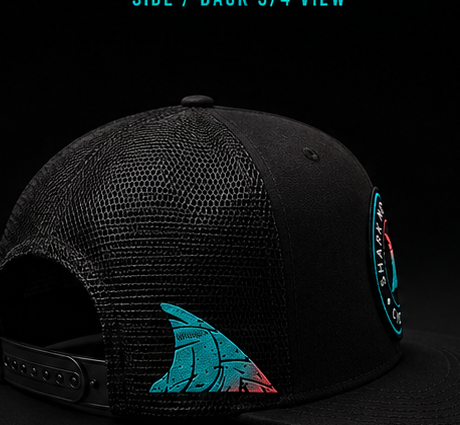
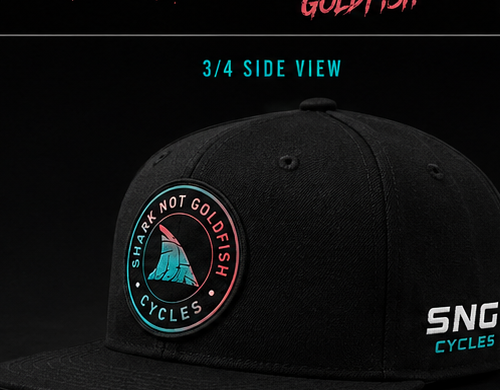
Refine FL Grown hero framing and mens hat views

diff --git a/florida-grown.html b/florida-grown.html
@@ -172,6 +172,9 @@ nav {
 }
 .hero-entry-img {
   width: 100%;
+  aspect-ratio: 16 / 10;
+  object-fit: cover;
+  object-position: center 22%;
   display: block;
 }
 
@@ -866,12 +869,12 @@ var PRODUCTS = {
   'reef-hat': {
     badge: 'Florida Grown', name: 'Florida Grown Snapback', sub: 'Structured Black Snapback',
     price: '$35.00', image: 'fl-grown-hat-front-crop.png',
-    desc: 'Structured black snapback with circular front patch, rear fin art, and custom Build Up underbrim artwork.',
+    desc: 'Structured black snapback with circular front patch, side SNG embroidery, and rear fin art.',
     imageMode: 'gallery',
     gallery: [
       { label: 'Front', image: 'fl-grown-hat-front-crop.png' },
       { label: 'Side', image: 'fl-grown-hat-side-crop.png' },
-      { label: 'Under', image: 'fl-grown-hat-under-crop.png' }
+      { label: 'Back', image: 'fl-grown-hat-back-crop.png' }
     ],
     selectors: [], orderLabel: 'Buy Snapback — $35.00', orderItem: 'Florida Grown Snapback',
     shopifyUrl: '45592416288947:1'
